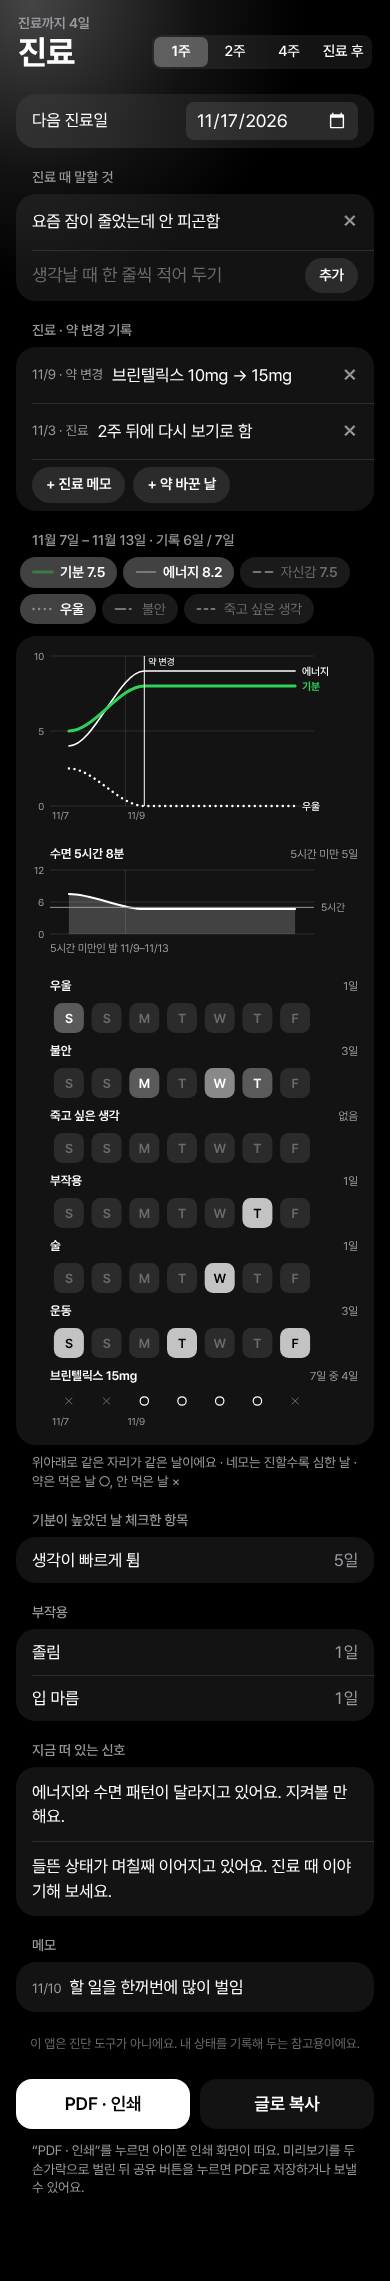
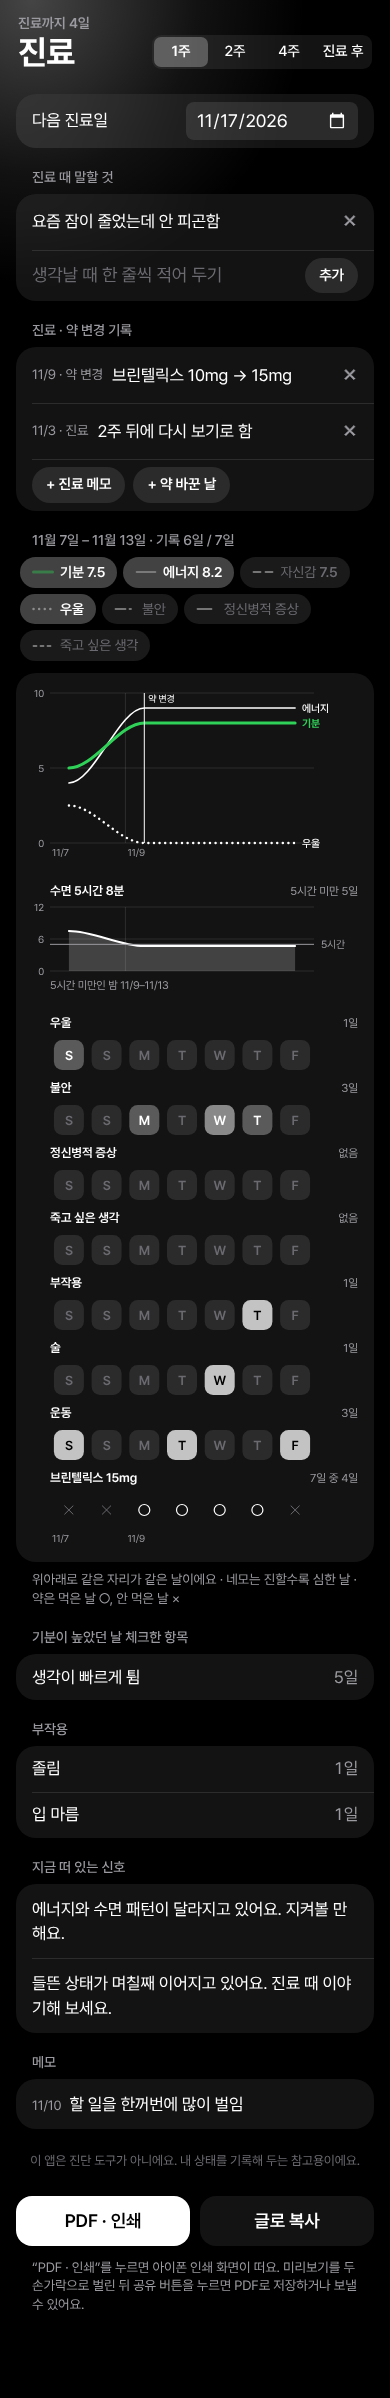
Tide: a reading of the last 7 days, psychotic symptoms item, taller medication rows
Insights open with a reading of the last 7 days: it counts how many days overlap with what is common in hypomania or a depressive episode (high mood/energy/confidence days, less sleep with high energy, checklist days, low days, thoughts of dying) and says 'overlaps with', never a diagnosis, with the evidence listed. Psychotic symptoms join the 5-level symptoms everywhere (record, today, trend, clinic, texts, settings). Medication and period mark rows now have the same height as the day-square rows.

Claude-Session: https://claude.ai/code/session_01Du4KAy7crrN67i73oW7iBF

diff --git a/mood/js/analysis.js b/mood/js/analysis.js
@@ -27,6 +27,43 @@ export function signals() {
   return out;
 }
 
+// 최근 7일이 어느 쪽으로 기울어 보이는지 읽는다 (사용자가 요청: "경조증 같은 게 보인다" 같은 인사이트).
+// 진단이 아니라, 그런 때 흔히 보이는 모습과 기록이 겹치는 점을 세어서 보여 주는 것이다. 문장도 "겹친다"까지만 말한다.
+//   { kind: 'high'(들뜬 쪽) | 'low'(가라앉은 쪽) | 'mixed'(둘 다) | 'even'(뚜렷하지 않음), title, points: [근거 문장, …] }
+// 최근 7일 중 4일 이상 적었을 때만 나온다 (모자라면 null). 수면은 그 전 4주의 내 평균과 견준다.
+export function recentState(entries = db.entries) {
+  const t = today();
+  const span = (from, to) => Object.keys(entries).filter((k) => k > addDays(t, -from) && k <= addDays(t, -to)).map((k) => entries[k]);
+  const now = span(7, 0), before = span(35, 7);
+  if (now.length < 4) return null;
+  const vals = (list, key) => list.map((e) => e[key]).filter((x) => x != null);
+  // 평균이 아니라 "그런 날이 며칠이었는지"로 센다 (7일 중 4~5일만 들떠도 평균은 묻히기 때문에). 4일 이상이면 근거로 넣는다.
+  const daysWith = (test) => now.filter(test).length, sleep = avg(vals(now, 'sleepMin'));
+  const moodUp = daysWith((e) => e.mood >= 7), energyUp = daysWith((e) => e.energy >= 7), confUp = daysWith((e) => e.conf >= 8);
+  const moodDown = daysWith((e) => e.mood != null && e.mood <= 3), energyDown = daysWith((e) => e.energy != null && e.energy <= 3);
+  const base = vals(before, 'sleepMin'), sleepDiff = sleep != null && base.length >= 3 ? Math.round(sleep - avg(base)) : null;
+  const high = [], low = [];
+  if (moodUp >= 4) high.push(F('기분이 7 이상인 날 {0}일', moodUp));
+  if (energyUp >= 4) high.push(F('에너지가 7 이상인 날 {0}일', energyUp));
+  if (sleepDiff != null && sleepDiff <= -60 && energyUp >= 3) high.push(F('잠이 평소보다 {0} 줄었는데 에너지는 높음', durText(-sleepDiff)));
+  if (confUp >= 4) high.push(F('자신감이 8 이상인 날 {0}일', confUp));
+  const signDays = daysWith((e) => !!e.signs && Object.keys(e.signs).some((k) => e.signs[k]));
+  if (signDays >= 2) high.push(F('말·생각이 빨라지거나 일을 벌인 날 {0}일', signDays));
+  if (moodDown >= 4) low.push(F('기분이 3 이하인 날 {0}일', moodDown));
+  if (energyDown >= 4) low.push(F('에너지가 3 이하인 날 {0}일', energyDown));
+  const depDays = daysWith((e) => e.dep >= 2);
+  if (depDays >= 4) low.push(F('우울이 보통 이상인 날 {0}일', depDays));
+  if (sleepDiff != null && Math.abs(sleepDiff) >= 60 && high.length < 3) low.push(F(sleepDiff > 0 ? '잠이 평소보다 {0} 늘어남' : '잠이 평소보다 {0} 줄어듦', durText(Math.abs(sleepDiff))));
+  const siDays = daysWith((e) => e.si >= 1), psyDays = daysWith((e) => e.psy >= 1);
+  if (siDays) low.push(F('죽고 싶은 생각이 있던 날 {0}일', siDays));
+  const extra = psyDays ? [F('정신병적 증상이 있던 날 {0}일', psyDays)] : [];
+  const isHigh = high.length >= 3, isLow = low.length >= 3;
+  if (isHigh && isLow) return { kind: 'mixed', title: T('최근 7일은 들뜬 모습과 가라앉은 모습이 함께 보여요.'), points: [...high, ...low, ...extra] };
+  if (isHigh) return { kind: 'high', title: T('최근 7일은 경조증 때 흔히 보이는 모습과 겹치는 점이 많아요.'), points: [...high, ...extra] };
+  if (isLow) return { kind: 'low', title: T('최근 7일은 우울 삽화 때 흔히 보이는 모습과 겹치는 점이 많아요.'), points: [...low, ...extra] };
+  return { kind: 'even', title: T('최근 7일은 한쪽으로 뚜렷하게 기운 모습이 보이지 않아요.'), points: extra };
+}
+
 // 인사이트: 두 묶음의 평균을 견준 관찰들. 차이가 큰 것부터 나온다.
 //   { text: 한 줄 결론, a: [이름, 값, 날 수], b: [이름, 값, 날 수] }
 // 차이가 뚜렷할 때만 넣는다. entries를 주면 그 기록으로 계산한다 (예시 기록 미리 보기).
@@ -108,7 +145,7 @@ export function aiSummary() {
     const signs = SIGNS.filter(([k]) => e.signs && e.signs[k]).map(([, l]) => l).join(', ');
     const val = (label, v, unit) => (v == null ? '' : `${label} ${v}${unit || ''}`);   // 안 적은 항목은 줄에서 뺀다
     const named = (label, list, on) => { const got = list.filter(([k]) => on && on[k]).map(([, l]) => l).join(', '); return got ? `${label}: ${got}` : ''; };
-    lines.push([d, val('기분', e.mood), val('에너지', e.energy), val('자신감', e.conf), val('우울', e.dep, '/4'), val('불안', e.anx, '/4'), val('죽고 싶은 생각', e.si, '/4'),
+    lines.push([d, val('기분', e.mood), val('에너지', e.energy), val('자신감', e.conf), val('우울', e.dep, '/4'), val('불안', e.anx, '/4'), val('정신병적 증상', e.psy, '/4'), val('죽고 싶은 생각', e.si, '/4'),
       e.sleepMin != null ? `수면 ${Math.floor(e.sleepMin / 60)}시간 ${e.sleepMin % 60}분${aided(e) ? '(전날 안정제·수면제 복용)' : ''}` : '', e.tired ? '기상 시 피곤' : '', e.period ? '생리 중' : '',
       e.appetite != null ? `식욕 ${e.appetite}` : '', e.drinks ? `카페인 약 ${cafMg(e.drinks)}mg(${drinkText(e.drinks) || '없음'})` : e.caffeine != null ? `카페인 ${e.caffeine}/10` : '', `약: ${meds || '없음'}`, named('부작용', SIDE_EFFECTS, e.fx), named('한 것', TAGS, e.tags), signs ? `체크: ${signs}` : '', e.note ? `메모: ${e.note}` : '']
       .filter(Boolean).join(' | '));
@@ -135,7 +172,7 @@ export function summary(weeks, back = 0) {
   return {
     weeks, dates, days, got,
     mood: stat('mood'), energy: stat('energy'), conf: stat('conf'), sleep: stat('sleepMin'),
-    high: { dep: when('dep', 3), anx: when('anx', 3), si: when('si', 1) },
+    high: { dep: when('dep', 3), anx: when('anx', 3), psy: when('psy', 1), si: when('si', 1) },
     shortSleep: got.filter((e) => e.sleepMin != null && e.sleepMin < SHORT_SLEEP).map((e) => e.date),
     signs: SIGNS.map(([k, label]) => [label, got.filter((e) => e.signs && e.signs[k]).length]).filter(([, c]) => c),
     fx: SIDE_EFFECTS.map(([k, label]) => [label, got.filter((e) => e.fx && e.fx[k]).length]).filter(([, c]) => c),

diff --git a/mood/js/views/clinic.js b/mood/js/views/clinic.js
@@ -44,13 +44,13 @@ function nextText() {
 // 설정에서 꺼 둔 항목은 뺀다.
 const lineDefs = () => [
   ['mood', T('기분'), 10], ['energy', T('에너지'), 10], ['conf', T('자신감'), 10],
-  ['dep', T('우울'), 4], ['anx', T('불안'), 4], ['si', T('죽고 싶은 생각'), 4],
+  ['dep', T('우울'), 4], ['anx', T('불안'), 4], ['psy', T('정신병적 증상'), 4], ['si', T('죽고 싶은 생각'), 4],
 ].filter(([key]) => itemOn(key));
 
 // 선은 색이 아니라 모양으로 구분한다: [굵기, 끊김 무늬]. 기분만 설정에서 고른 색의 굵은 실선이고, 나머지는 같은 색(--ink)이다.
 const LINE_STYLE = {
   mood: [3, ''], energy: [1.6, ''], conf: [1.8, '7 5'],
-  dep: [2.4, '0.1 5.5'], anx: [1.8, '10 4 1.5 4'], si: [1.8, '3 4'],
+  dep: [2.4, '0.1 5.5'], anx: [1.8, '10 4 1.5 4'], psy: [1.8, '14 5'], si: [1.8, '3 4'],
 };
 const lineColor = (key) => (key === 'mood' ? tone('mood', 10) || 'var(--ink)' : 'var(--ink)');
 const lineAttrs = (key) => `fill="none" stroke-linejoin="round" stroke-linecap="round" style="stroke:${lineColor(key)}" stroke-width="${LINE_STYLE[key][0]}"${LINE_STYLE[key][1] ? ` stroke-dasharray="${LINE_STYLE[key][1]}"` : ''}`;
@@ -73,7 +73,7 @@ function dateRanges(list) {
 // show: 기간 전체에서 한 번이라도 있었던 것만 줄을 만든다 { fx: 부작용이 있었는지, tags: [있었던 생활 열쇠] }
 function figures(s, width, SH, show) {
   // 오른쪽에는 선 끝 이름이 들어갈 자리를 둔다 (이름이 긴 "죽고 싶은 생각"을 켰을 때만 넓게)
-  const n = s.dates.length, L = 18, R = clinicView.lines.includes('si') ? 80 : 44, pw = width - L - R, col = pw / n;
+  const n = s.dates.length, L = 18, R = clinicView.lines.some((k) => k === 'si' || k === 'psy') ? 80 : 44, pw = width - L - R, col = pw / n;
   const cx = (i) => L + col * (i + 0.5);
   const ink = 'style="fill:var(--ink)"', mutedText = 'style="fill:var(--muted)"';
   const marks = s.dates.map((d, i) => (i === 0 || parse(d).getDay() === 1 ? i : -1)).filter((i) => i >= 0);
@@ -164,17 +164,17 @@ function figures(s, width, SH, show) {
   if (itemOn('tags')) TAGS.filter(([k]) => show.tags.includes(k)).forEach(([k, name]) => squares(name, (e) => (e.tags && e.tags[k] ? 3 : 0)));
 
   // 4. 약 · 생리: 얇은 선으로 먹은 날 ○, 안 먹은 날 ×
-  const r = Math.max(2, Math.min(col / 2 - 1.5, 4.2));
+  const r = Math.max(2, Math.min(col / 2 - 1.5, 5.5));
   const marksRow = (has, cross) => {
     s.dates.forEach((d, i) => {
-      const x = cx(i), my = y + 21;
+      const x = cx(i), my = y + 13 + sq / 2;
       if (has(d, s.days[i])) out += `<circle cx="${x.toFixed(1)}" cy="${my}" r="${r.toFixed(1)}" fill="none" stroke-width="1.2" style="stroke:var(--ink)"/>`;
       else if (cross) {
         const k = r * 0.75;
         out += `<path d="M${(x - k).toFixed(1)},${(my - k).toFixed(1)}L${(x + k).toFixed(1)},${(my + k).toFixed(1)}M${(x + k).toFixed(1)},${(my - k).toFixed(1)}L${(x - k).toFixed(1)},${(my + k).toFixed(1)}" fill="none" stroke-width="1" stroke-linecap="round" style="stroke:var(--faint)"/>`;
       }
     });
-    y += 50;
+    y += 13 + sq + 22;   // 증상 네모 줄과 같은 높이
   };
   const meds = itemOn('meds') ? s.meds : [], period = itemOn('period') && s.period.length > 0;
   meds.forEach(([m, count]) => {
@@ -197,7 +197,7 @@ function summaryRows(s) {
   const dur = (m) => durText(Math.round(m));
   const flags = [
     [T('우울 높음 이상'), s.high.dep], [T('불안 높음 이상'), s.high.anx],
-    [T('죽고 싶은 생각'), s.high.si], [T('5시간 미만 수면'), s.shortSleep], [T('생리'), s.period],
+    [T('정신병적 증상'), s.high.psy], [T('죽고 싶은 생각'), s.high.si], [T('5시간 미만 수면'), s.shortSleep], [T('생리'), s.period],
   ].filter(([, list]) => list.length).map(([name, list]) => [name, `${F('{0}일', list.length)} · ${dateList(list)}`]);
   return {
     averages: [[T('기분'), range(s.mood, num)], [T('에너지'), range(s.energy, num)], [T('자신감'), range(s.conf, num)], [T('수면'), range(s.sleep, dur)]],

diff --git a/mood/js/views/record.js b/mood/js/views/record.js
@@ -1,7 +1,7 @@
 // 기록 화면
 // 한 번에 다 적지 않아도 된다: 만진 항목만 저장되고, 안 만진 항목은 빈 값(null)으로 남는다.
 // 아침에 수면만 적고 밤에 기분을 적는 식으로 같은 날을 여러 번 열어 이어 적을 수 있다.
-import { DRINKS, LEVELS, SIDE_EFFECTS, SIGNS, SYMPTOMS, TAGS, cafMg, cafScore, isHigh, nameOf, onlyOn } from '../constants.js';
+import { DRINKS, LEVELS, SIDE_EFFECTS, SIGNS, SYMPTOMS, SYMPTOM_HINT, TAGS, cafMg, cafScore, isHigh, nameOf, onlyOn } from '../constants.js';
 import { durText, longDate, sleepMinutes } from '../dates.js';
 import { $, closeSheet, esc, sheet, showSheet, toast } from '../dom.js';
 import { F, T } from '../i18n.js';
@@ -22,7 +22,7 @@ export function newDraft(date) {
   // 잠든·깬 시각은 가장 최근 기록을 기본값으로 보여 준다 (대부분 비슷하니까 덜 만져도 되게). 수면을 적겠다고 해야 저장된다.
   const last = Object.keys(db.entries).sort().reverse().map((k) => db.entries[k]).find((x) => x.bed && x.wake);
   const blank = {
-    date, mood: null, energy: null, conf: null, appetite: null, dep: null, anx: null, si: null,
+    date, mood: null, energy: null, conf: null, appetite: null, dep: null, anx: null, psy: null, si: null,
     sleepSet: false, bed: last ? last.bed : '23:30', wake: last ? last.wake : '07:00', tired: false,
     period: false, drinks: {}, meds: (db.taken[date] || []).slice(), note: '', signs: {}, fx: {}, tags: {},
   };
@@ -80,6 +80,7 @@ const FOCUS = {
   sleep: () => [T('지난밤 수면'), ['sleep']],
   dep: () => [T('우울'), ['dep']],
   anx: () => [T('불안'), ['anx']],
+  psy: () => [T('정신병적 증상'), ['psy']],
   si: () => [T('죽고 싶은 생각'), ['si']],
   period: () => [T('생리'), ['period']],
   appetite: () => [T('식욕'), ['appetite']],
@@ -109,7 +110,7 @@ export function openRecord(date, focus) {
   const sec = (name) => (only ? '' : `<div class="sec">${name}</div>`);   // 한 항목만 뜰 때는 화면 제목이 이름을 대신한다
   const group = (name, rows, id) => (rows ? `${sec(name)}<section class="card list"${id ? ` id="${id}"` : ''}>${rows}</section>` : '');
   // 증상과 몸 항목은 전체 화면에서는 묶음으로, 오늘 화면에서 한 줄을 눌렀을 때는 그 한 줄만 뜬다
-  const symRow = ([k, label]) => `<div class="li col"><span class="lk">${label}</span>${seg(k, LEVELS, d[k])}</div>`;
+  const symRow = ([k, label]) => `<div class="li col"><span class="lk">${label}${SYMPTOM_HINT[k] ? `<small>${SYMPTOM_HINT[k]}</small>` : ''}</span>${seg(k, LEVELS, d[k])}</div>`;
   const bodyRow = {
     period: () => sw('data-flag="period"', d.period, T('생리 중'), IC.drop),
     appetite: () => slider('appetite', IC.fork, T('식욕'), d.appetite, T('없음'), T('많음')),
@@ -182,7 +183,7 @@ export function saveEntry() {
   // 수면을 안 적었으면 빈 값. 다만 시각 없이 수면 시간만 있던 예전 기록은 그대로 둔다.
   const keepOldSleep = !d.sleepSet && !!prev && !prev.bed && prev.sleepMin != null;
   db.entries[d.date] = {
-    date: d.date, mood: d.mood, energy: d.energy, conf: d.conf, dep: d.dep, anx: d.anx, si: d.si,
+    date: d.date, mood: d.mood, energy: d.energy, conf: d.conf, dep: d.dep, anx: d.anx, psy: d.psy, si: d.si,
     bed: d.sleepSet ? d.bed || null : null, wake: d.sleepSet ? d.wake || null : null,
     sleepMin: d.sleepSet ? sleepMinutes(d.bed, d.wake) : keepOldSleep ? prev.sleepMin : null,
     tired: d.sleepSet && !!d.tired, period: !!d.period, appetite: d.appetite,

diff --git a/mood/js/i18n.js b/mood/js/i18n.js
@@ -157,6 +157,26 @@ const DICT = {
   '인사이트': 'Insights',
   '기록에서 보이는 것': 'What your log shows',
   '기록 항목': 'Items to log',
+  '정신병적 증상': 'Psychotic symptoms',
+  '환청 · 심한 의심 · 현실 같지 않은 느낌': 'Hearing voices · strong suspicion · things feeling unreal',
+  '예시 기록의 최근 7일': 'Last 7 days of the example log',
+  '기분이 7 이상인 날 {0}일': 'Mood 7 or above on {0} days',
+  '에너지가 7 이상인 날 {0}일': 'Energy 7 or above on {0} days',
+  '자신감이 8 이상인 날 {0}일': 'Confidence 8 or above on {0} days',
+  '기분이 3 이하인 날 {0}일': 'Mood 3 or below on {0} days',
+  '에너지가 3 이하인 날 {0}일': 'Energy 3 or below on {0} days',
+  '잠이 평소보다 {0} 줄었는데 에너지는 높음': 'Sleeping {0} less than usual while energy is high',
+  '말·생각이 빨라지거나 일을 벌인 날 {0}일': 'Faster speech or thoughts, or starting many things, on {0} days',
+  '우울이 보통 이상인 날 {0}일': 'Depression moderate or above on {0} days',
+  '잠이 평소보다 {0} 늘어남': 'Sleeping {0} more than usual',
+  '잠이 평소보다 {0} 줄어듦': 'Sleeping {0} less than usual',
+  '죽고 싶은 생각이 있던 날 {0}일': 'Thoughts of dying on {0} days',
+  '정신병적 증상이 있던 날 {0}일': 'Psychotic symptoms on {0} days',
+  '최근 7일은 들뜬 모습과 가라앉은 모습이 함께 보여요.': 'The last 7 days show both elevated and low features.',
+  '최근 7일은 경조증 때 흔히 보이는 모습과 겹치는 점이 많아요.': 'The last 7 days overlap in several ways with what is often seen in hypomania.',
+  '최근 7일은 우울 삽화 때 흔히 보이는 모습과 겹치는 점이 많아요.': 'The last 7 days overlap in several ways with what is often seen in a depressive episode.',
+  '최근 7일은 한쪽으로 뚜렷하게 기운 모습이 보이지 않아요.': 'The last 7 days do not lean clearly one way.',
+  '진단이 아니에요. 기록에서 겹쳐 보이는 점을 모은 것이니, 진료 때 보여 주며 이야기해 보세요.': 'This is not a diagnosis. It gathers what overlaps in your log, so show it at your appointment and talk it through.',
   '부작용': 'Side effects',
   '술 · 운동': 'Alcohol · Exercise',
   '오늘 한 것': 'Today I',

diff --git a/mood/js/views/insight.js b/mood/js/views/insight.js
@@ -1,6 +1,6 @@
 // 인사이트 화면: 지금 떠 있는 신호, 기록에서 보이는 비교(숫자 두 개씩), 메모·AI로 가는 줄
 // 기록이 아직 적으면 예시 기록으로 어떤 것이 나오는지 미리 볼 수 있다 (ui.insightDemo).
-import { INSIGHT_MIN_DAYS, insights, signals } from '../analysis.js';
+import { INSIGHT_MIN_DAYS, insights, recentState, signals } from '../analysis.js';
 import { app } from '../dom.js';
 import { F, T } from '../i18n.js';
 import { IC } from '../icons.js';
@@ -15,11 +15,16 @@ const compareRow = ({ text, a, b }) => `<div class="li cmp"><div class="cmp-t">$
 export function viewInsight() {
   const n = Object.keys(db.entries).length, mine = insights(), sig = signals();
   const demo = ui.insightDemo && !mine.length, list = demo ? insights(sampleEntries()) : mine;
+  const state = demo ? recentState(sampleEntries()) : recentState();
   const empty = `<div class="li say mut">${n < INSIGHT_MIN_DAYS ? F('기록이 {0}일 이상 쌓이면 패턴을 찾아 보여 드려요. 지금은 {1}일이에요.', INSIGHT_MIN_DAYS, n) : T('아직 뚜렷한 패턴이 보이지 않아요. 기록이 더 쌓이면 다시 살펴볼게요.')}</div>
     <button class="li add" data-act="insightDemo">${IC.spark}&nbsp; ${T('예시로 미리 보기')}</button>`;
   app.innerHTML = `
     <header class="top"><div><div class="over">${F('기록 {0}일', n)}</div><h1>${T('인사이트')}</h1></div></header>
     ${sig.map((m) => `<div class="card signal"><i></i><span>${m}</span></div>`).join('')}
+    ${state ? `<div class="sec">${demo ? T('예시 기록의 최근 7일') : T('최근 7일')}</div>
+    <section class="card state"><b>${state.title}</b>
+      ${state.points.length ? `<ul>${state.points.map((x) => `<li>${x}</li>`).join('')}</ul>` : ''}
+      <p>${T('진단이 아니에요. 기록에서 겹쳐 보이는 점을 모은 것이니, 진료 때 보여 주며 이야기해 보세요.')}</p></section>` : ''}
     <div class="sec">${demo ? T('예시 기록에서 보이는 것') : T('기록에서 보이는 것')}</div>
     <section class="card list">${list.length ? list.map(compareRow).join('') : empty}
       ${demo ? `<button class="li add dim" data-act="insightDemo">${T('예시 닫기')}</button>` : ''}</section>

diff --git a/mood/js/constants.js b/mood/js/constants.js
@@ -4,11 +4,13 @@ import { EN, T } from './i18n.js';
 export const LEVELS = [T('없음'), T('약간'), T('보통'), T('높음'), T('매우 높음')];
 // si(죽고 싶은 생각)는 진료 때 꼭 필요한 정보라 다른 증상과 같은 5단계로 적는다. 문구는 담담하게, 판단 없이.
 // "고조(들뜸)"는 기분·에너지와 겹쳐서 뺐다 (2026-11-13). 예전 기록에 남아 있는 값(elev)은 쓰지 않고, 그 날을 다시 저장하면 빠진다.
-export const SYMPTOMS = [['dep', T('우울')], ['anx', T('불안')], ['si', T('죽고 싶은 생각')]];
+export const SYMPTOMS = [['dep', T('우울')], ['anx', T('불안')], ['psy', T('정신병적 증상')], ['si', T('죽고 싶은 생각')]];
+// 기록 화면에서 이름 옆에 작게 붙는 설명
+export const SYMPTOM_HINT = { psy: T('환청 · 심한 의심 · 현실 같지 않은 느낌') };
 // 기록 항목: 설정에서 하나씩 끌 수 있다 (끄면 기록·오늘·흐름·진료 화면에서 안 보인다. 적어 둔 값은 지우지 않는다).
 export const ITEMS = [
   ['mood', T('기분')], ['energy', T('에너지')], ['conf', T('자신감')], ['sleep', T('수면')],
-  ['dep', T('우울')], ['anx', T('불안')], ['si', T('죽고 싶은 생각')],
+  ['dep', T('우울')], ['anx', T('불안')], ['psy', T('정신병적 증상')], ['si', T('죽고 싶은 생각')],
   ['period', T('생리')], ['appetite', T('식욕')], ['caffeine', T('카페인')], ['meds', T('약')],
   ['fx', T('부작용')], ['tags', T('술 · 운동')], ['note', T('메모')],
 ];

diff --git a/mood/app.css b/mood/app.css
@@ -384,6 +384,11 @@ input[type=date] { border: 0; outline: none; background: var(--card2); color: va
 .chip { background: var(--card2); border-radius: 999px; padding: 8px 15px; font-size: calc(14px * var(--fs, 1.12)); color: var(--muted); }
 .chip[aria-pressed=true] { background: var(--ink); color: var(--ink-inv); font-weight: 600; }
 
+/* 인사이트: 최근 7일 읽기 (결론, 근거 목록, 진단이 아니라는 말) */
+.state b { display: block; font-size: calc(16px * var(--fs, 1.12)); font-weight: 600; line-height: 1.4; }
+.state ul { margin: 10px 0 0; padding-left: 18px; color: var(--text); font-size: calc(14px * var(--fs, 1.12)); line-height: 1.6; }
+.state p { margin: 10px 0 0; color: var(--faint); font-size: calc(11.5px * var(--fs, 1.12)); line-height: 1.45; }
+
 /* 인사이트: 결론 한 줄과 그 근거인 두 평균 */
 .li.cmp { display: block; padding: 13px 16px 14px; }
 .cmp-t { font-size: calc(15px * var(--fs, 1.12)); font-weight: 500; line-height: 1.4; }

diff --git a/mood/tests/smoke.js b/mood/tests/smoke.js
@@ -180,6 +180,7 @@ function seed() {
   check('오늘 화면에 초기 신호 배너', (await page.$$('.signal')).length >= 1);
   await page.click('[data-tab=insight]');
   const says = await page.$$eval('.li.cmp', (x) => x.map((el) => el.textContent));
+  check('최근 7일 읽기: 들뜬 날이 이어지면 겹치는 점을 근거와 함께 보여 줌', (await text('.state')).includes('경조증 때 흔히 보이는 모습') && (await text('.state')).includes('에너지가 7 이상인 날') && (await text('.state')).includes('진단이 아니에요'));
   check('인사이트: 두 숫자 비교', says.some((s) => s.includes('에너지가 높았던 날') && s.includes('그런 날') && s.includes('다른 날')), says.join(' / '));
   await page.click('[data-tab=trend]');
   check('주 그래프', (await page.$$('.plot svg')).length >= 4);

diff --git a/mood/sw.js b/mood/sw.js
@@ -1,7 +1,7 @@
 // 오프라인에서도 열리도록 앱 파일을 저장해 둔다.
 // 인터넷이 될 때는 항상 최신 파일을 먼저 받아오고, 안 될 때만 저장본을 쓴다.
 // 앱 파일을 바꿔서 올릴 때마다 CACHE 숫자를 하나 올린다. js/ 에 파일을 더하면 JS 목록에도 더한다.
-const CACHE = 'tide-v65';
+const CACHE = 'tide-v66';
 const JS = ['main', 'config', 'i18n', 'constants', 'store', 'dates', 'theme', 'icons', 'dom', 'state', 'meds', 'analysis', 'sample', 'files', 'render', 'swipe', 'lock',
   'views/today', 'views/trend', 'views/insight', 'views/record', 'views/settings', 'views/clinic', 'views/notes'];
 const FILES = ['./', 'index.html', 'app.css', 'manifest.webmanifest',

diff --git a/mood/js/sample.js b/mood/js/sample.js
@@ -13,6 +13,7 @@ export function sampleEntries() {
     out[date] = {
       date, mood: high ? 8 : 5 - (drankYesterday ? 2 : 0) - (period ? 1 : 0), energy: high ? 9 : 4 + (i % 2), conf: high ? 8 : 5,
       sleepMin, tired: !high && sleepMin < 400, period, caffeine: caf ? 8 : 3, appetite: caf ? 3 : 6,
+      dep: high ? 0 : 1, signs: high ? { racing: true, projects: i % 2 === 0 } : {},
       tags: i % 6 === 0 && !high ? { alcohol: true } : i % 4 === 1 ? { exercise: true } : undefined,
     };
   }

diff --git a/mood/js/config.js b/mood/js/config.js
@@ -2,4 +2,4 @@
 export const KEY = 'tide.v1', OLD_KEY = 'harugyeol.v1';
 
 // 설정 화면 맨 아래에 보이는 번호. 올릴 때마다 sw.js의 CACHE 숫자와 같이 하나 올린다.
-export const VERSION = 65;
+export const VERSION = 66;

diff --git a/CLAUDE.md b/CLAUDE.md
@@ -36,6 +36,7 @@
 - 색은 하나만 쓴다 (기분·에너지·자신감 공통, 수면은 무채색). 배경 빛은 왼쪽 위 하나.
   진료용 요약의 큰 그래프도 선을 색이 아니라 모양(실선·점선·굵기)으로 구분한다. 선마다 색을 넣어 봤는데 사용자가 난잡하다고 해서 뺐다 (2026-11-13).
 - 말투는 차분하게, 판단이 아니라 관찰로. 겁주는 문구를 쓰지 않는다.
+  인사이트의 "최근 7일" 읽기는 사용자가 원해서 넣었다 (2026-11-13). "경조증·우울 삽화 때 흔히 보이는 모습과 겹친다"까지만 말하고 근거를 같이 보여 준다. "경조증이에요"처럼 단정하지 않는다.
 - "죽고 싶은 생각"은 다른 증상과 같은 5단계로 적는다 (사용자가 요청, 2026-11-13). 높음 이상인 날 오늘 화면에 109 상담전화를 한 줄로 조용히 보여 주는 것 말고는 따로 막거나 경고하지 않는다.
 - 잠금은 4자리 숫자 가림막이다 (암호화 아님). 잊으면 기록을 지우고 새로 시작하는 길만 있다. 백업 파일에는 비밀번호를 넣지 않는다.
 - 탭바는 `position: fixed; bottom: 0` 그대로 둔다. 아이폰 홈 화면 앱에서 짧은 화면일 때 탭바가 떠오르는 문제를 고치려고 `body { overflow: hidden }`이나 화면 높이 기준 배치를 넣었다가 화면 아래가 잘려서 되돌렸다 (2026-11-13). 이 문제는 실제 아이폰 캡처 없이는 확인할 수 없으니, 고칠 때는 한 번에 한 가지만 바꾸고 사용자에게 캡처를 받는다.
